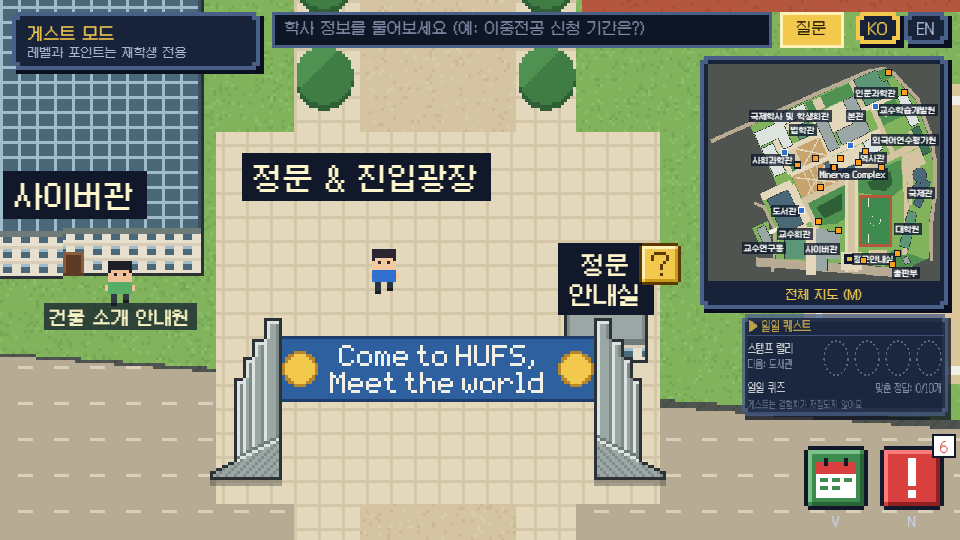
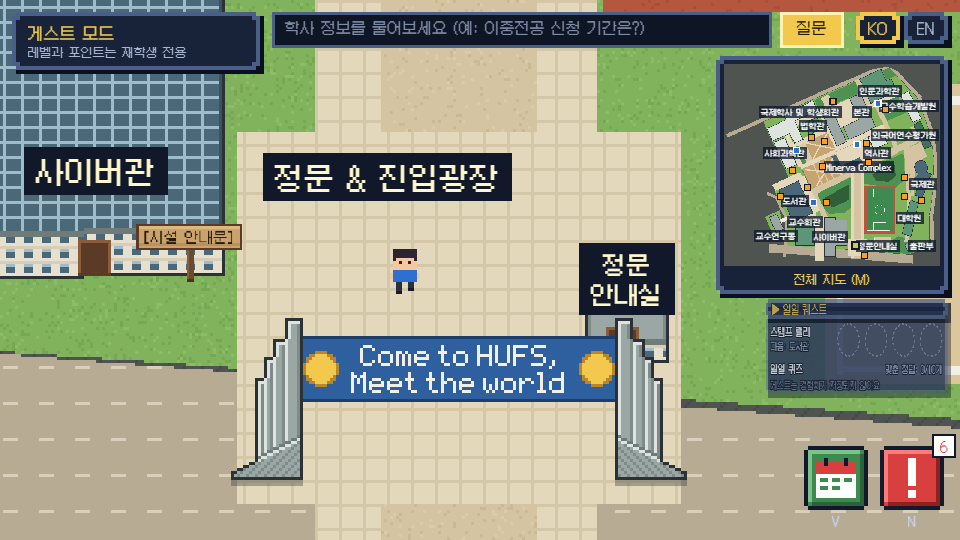
docs: 11/27 오후 다듬기 캡처(첫 화면 7장 다시 + 전 · 후 비교 5장) · 구조 문서 갱신
- 첫 화면 7장 덮어쓰기(first-mobile-student-open은 가짜 로그인 mock)
- 전 · 후 나란히: 도서관 부스 · 팻말, 외국어연수평가원 팻말, 나무 정리 2곳(정문 위 진입로 · 외국어연수평가원 앞 길), 일일 퀘스트 반투명
  ("전"은 수정 전 커밋 326b209의 src로 같은 자리에서 찍음, HUD를 숨기고 찍은 장면 포함)
- ARCHITECTURE: HUD · 일일 퀘스트 줄과 변경 기록

diff --git a/docs/ARCHITECTURE.md b/docs/ARCHITECTURE.md
@@ -123,14 +123,14 @@ class explore,quiz,notice,progress,rules,userDb,login,limiter,mapInfo,newApi,vec
 | 빠른 검색창 | `src/ui/searchBar.js` → `src/data/askApi.js` → `api/ask.js` (11/20~ `shared/academicDate.js`: 한국 시간 오늘 날짜 · 현재 학기를 지시문에 붙이고, 답변의 날짜(연-월-일 · 월-일)나 연도(YYYY학년도 · YYYY년)가 근거 조각에 없으면 "찾지 못함"으로 바꿈. 테스트 `tests/academicDate.test.js`. 11/20~ `api/_lib/decompose.js`: 질문을 하위 질문 최대 2개로 쪼개(`parseQueries`) 하위 질문마다 동시에 벡터 검색하고 `mergeDocs`로 합침, RPC는 `CHUNKS_RPC`(match_chunks · match_chunks_next만 허용). 테스트 `tests/decompose.test.js`. `api/_lib/answerFormat.js`: 답변의 줄 맨 앞 번호 목록을 지우고, 넘긴 자료 수를 넘는 인용 번호를 지움. 11/22~ 출력 상한(400)에 걸려 끊긴 답은 끝난 문장까지만(`trimTruncated`). 테스트 `tests/answerFormat.test.js`. 11/27~ `api/_lib/contactGuard.js`: 답의 이메일 · 전화번호 · 인터넷 주소가 근거 조각(제목 · 본문 · 출처 주소)이나 질문에 없으면 원문 보여 주기로. 테스트 `tests/contactGuard.test.js`) | 신중혁 |
 | 출처 수집일 | `api/_lib/sourceDates.js`: 검색된 조각 ID로 `chunks` 또는 `chunks_next`의 `collected_at` 일괄 조회, 한국 시간 기준 YYYY-MM-DD 변환. `api/ask.js`의 `citedSources()`가 기존 출처에 `collectedAt` 추가. 동일 URL은 확인 가능한 날짜 중 가장 오래된 수집일 표시. 조회 실패 또는 날짜가 없으면 기존 출처 유지. `src/scenes/DialogScene.js` · `src/state.js`에서 한·영 표시. 테스트 `tests/sourceDates.test.js` · `tests/answerCache.test.js`. SQL 변경 없음, Preview 검수 예정 | 신중혁(서버·테스트) · 이종헌(화면 주 담당) |
 | O/X 퀴즈 | `src/scenes/QuizScene.js`, `src/quizBoxes.js`(상자 자리는 `world.js` `WORLD.quizSpots`), `src/quizProgress.js`, `src/data/quiz.js` | 이종헌(배치) · 신중혁(문항) |
-| 일일 퀘스트 (11/27 PM 결정: 이종헌) | **스탬프 랠리 4곳**(도서관 · 국제학사 및 학생회관 · 본관 · 인문과학관): `shared/stampRally.js`(대상 · 도장 약칭 · 건물별 3지선다 후보 3개 · 한국 날짜로 정해지는 오늘의 문제 · 채점. 문제 · 보기는 `buildingInfo.js` 공식 출처 항목에서만), `src/data/stampRallySpots.js`(출입구 옆 팻말 · 반대쪽 부스 자리 계산, 통과 불가 판정), `src/gfx/rallyTextures.js`(캐노피 부스 · 나무 팻말 그림, 도서관은 3/4 각도), `src/scenes/BoothScene.js`(부스 문제 창), `src/ui/stampMark.js`(도장 · 색종이 연출). 이 4곳은 건물 소개 안내원 대신 **"[시설 안내문]" 팻말**에서 `[Enter] 시설 소개`(`officeView.js` `officeSpot`)가 열림. **일일 퀴즈**: 오늘 맞춘 정답 n/10, 10개면 보너스. 화면 로직 `src/dailyQuests.js`(게스트는 메모리, 자정 넘김 30초마다 확인), HUD 창 `HudScene.renderDailyPanel` + 배치 `src/ui/hudLayout.js`, 상세 창 `src/ui/questOverlay.js`. 서버는 새 함수 · 새 SQL 없이 `api/quiz-answer.js`(`kind: "booth"` → `reward_log` source `stamp`) · `api/quest-complete.js`(`stampRally` · `dailyQuiz`를 날짜 붙인 id로) · `progress.daily`. 테스트 `tests/stampRally.test.js` · `stampRallySpots.test.js` · `dailyQuests.test.js` · `dailyQuestsServer.test.js` · `hudLayout.test.js` | 이종헌 |
+| 일일 퀘스트 (11/27 PM 결정: 이종헌) | **스탬프 랠리 4곳**(도서관 · 국제학사 및 학생회관 · 본관 · 인문과학관): `shared/stampRally.js`(대상 · 도장 약칭 · 건물별 3지선다 후보 3개 · 한국 날짜로 정해지는 오늘의 문제 · 채점. 문제 · 보기는 `buildingInfo.js` 공식 출처 항목에서만), `src/data/stampRallySpots.js`(출입구 옆 팻말 · 반대쪽 부스 자리 계산, 통과 불가 판정), `src/gfx/rallyTextures.js`(캐노피 부스 · 나무 팻말 그림, 도서관은 3/4 각도), `src/scenes/BoothScene.js`(부스 문제 창), `src/ui/stampMark.js`(도장 · 색종이 연출). 11/27 오후: **"건물 소개 안내원" NPC를 모두 없애고 시설 소개가 있는 13곳에 "[시설 안내문]" 팻말**(`signSpotOf`, 문과 같은 외벽에 붙임, 그림은 80% `SIGN_SCALE` · `BOOTH_SCALE`)을 세워 거기서 `[Enter] 시설 소개`(`officeView.js` `officeSpot`)가 열림. 부스는 랠리 4곳만(문을 사이에 두고 팻말 반대쪽, 팻말 ↔ 부스 거리 예전의 1.5배). 출입문 그림은 1.5배(`campusV2.js` `DOOR_ART_SCALE` · `doorArtRect`, 팻말 · 부스가 2px 여유로 피함), 가로수는 길 위 · 크게 겹친 나무를 뺀 목록만 그림(`cleanedTrees`). **일일 퀴즈**: 오늘 맞춘 정답 n/10, 10개면 보너스. 화면 로직 `src/dailyQuests.js`(게스트는 메모리, 자정 넘김 30초마다 확인), HUD 창 `HudScene.renderDailyPanel` + 배치 `src/ui/hudLayout.js`, 상세 창 `src/ui/questOverlay.js`. 서버는 새 함수 · 새 SQL 없이 `api/quiz-answer.js`(`kind: "booth"` → `reward_log` source `stamp`) · `api/quest-complete.js`(`stampRally` · `dailyQuiz`를 날짜 붙인 id로) · `progress.daily`. 테스트 `tests/stampRally.test.js` · `stampRallySpots.test.js` · `dailyQuests.test.js` · `dailyQuestsServer.test.js` · `hudLayout.test.js` | 이종헌 |
 | 마감 임박 공지 | `src/ui/deadlineOverlay.js` → `api/deadlines.js` ← `shared/deadlines.js` | 이종헌(화면) · 임현규(데이터) · 신중혁(추출) |
 | 새 공지 알림 · 초안(운영 도구) | `.github/workflows/notice-watch.yml`(하루 3회) → `scripts/notice-watch.mjs` · `scripts/lib/noticeWatch.mjs`(고정된 목록 페이지 4곳에서 제목 · 게시일 · 글 번호만, 본문 안 엶) → 새 글 GitHub 이슈(담당 임현규). 사람이 본문을 `.local/notices/`에 복사 → `scripts/notice-draft.mjs` · `scripts/lib/noticeDraft.mjs`(공지 추출 도우미 실행 → `shared/deadlines.js`에 `checked` 없이 추가 → Draft PR). `api/deadlines.js`는 `checked` 있는 항목만 응답. 사용법 `docs/NOTICE_FLOW.md` | 임현규 |
 | 공지 추출 도우미(CLI) | 팀원이 직접 복사한 공지 원문 → `scripts/extract-notice.mjs`(HyperCLOVA X 추출) → `scripts/lib/noticeDate.mjs`(날짜 해석) · `noticeEvidence.mjs`(원문 근거 연결) · `noticeExtract.mjs`(검증) → 입력용 JSON 초안 → 팀 검수 후 `shared/deadlines.js`에 수동 반영. 게시판 자동 수집 및 자동 데이터 반영 없음 | 신중혁 |
 | 공지 추출 도우미(HCX-007, 연동 대기) | `scripts/extract-notice-hcx007.mjs`(원문 파일 · URL · 선택 게시일) → `scripts/lib/noticeHcx007.mjs`(Structured Outputs · 추론 끔 · 개인정보 사전 검사) → `noticeHcx007Draft.mjs` · `noticeHcx007Date.mjs`(원문 날짜 검증 · 23:59 보완 · 연도 추정 · 복수 마감 · 요일 검증) · 기존 원문 검증 함수 → JSON 초안과 별도 `reviewNotes` 출력. `noticeDraft.mjs` · `notice-draft.mjs`가 게시일 전달 및 검수 메모를 기존 확인 목록에 연결. 실제 공지 데이터에는 메모와 `checked` 미포함. 검증 실패 시 종료 코드 1. 기존 HCX-005 EXTRACTOR 경로 유지, 11/30 담당자 전환 예정. 성능 검증 `docs/NCP_USAGE.md` | 신중혁 |
 | 학교 행사 | `src/ui/eventOverlay.js`(표 창, 공통 틀 `src/ui/hudOverlay.js` · `hudOverlay.css`, 출처 칸 맨 앞 출처 종류 배지 · "행사 제보하기" 링크 — 순수 함수 `src/ui/eventView.js`, 폼 주소 `eventsApi.js` `EVENT_REPORT_URL`이 폼 연결 완료(11/26)) ← `src/data/eventsApi.js`(서버 없으면 기기 계산, `?demoEvents=1`일 때만 [예시]) → `api/events.js`(GET, no-store, `checked.by` 제외) ← `shared/events.js`(팀이 원문을 보고 손 입력, 지금 빈 배열) · `shared/eventCalc.js`(오늘~14일 · 진행 중 계산, 출처 규칙 `eventProblems`). "지도에서 보기" → `MapScene` 건물 강조. 테스트 `tests/events.test.js`. 정적 데이터에는 `sourceType: "crowd"` 금지(`eventProblems`) | 이종헌(화면) · 팀(데이터) |
 | 행사 제보(앱 안, 1단계: DB · 서버) | `api/event-report.js`(POST, 로그인 필수 `authenticateStudent`, 계정당 하루 3회 · env 전체 하루 300회 `event_report_hit`, 후보 묶음 최대 10개 → HCX-007 + Structured Outputs `matchCluster`, 기준 `EVENT_REPORT_THRESHOLD` 기본 5) ← `shared/eventReport.js`(입력 검사 · 전화번호 · 이메일 · 카카오 거절, 칸 · 코드만 돌려줌) → `supabase/008_event_reports.sql`(`event_clusters` · `event_reports` · `event_report_usage`, RLS 정책 없음, `submit_event_report` · `event_report_hit` service_role 전용, **실행 전**). `api/events.js`가 같은 env의 published · confirmed 묶음을 `crowd-<id>`로 합침(Supabase 실패 시 팀 입력 행사만). 테스트 `tests/eventReport.test.js`. **2단계 화면(11/26)**: 행사 창 "행사 제보하기"가 진짜 로그인(`AUTH_MODE` real + 토큰)이면 창 안 제보 폼(`src/ui/eventOverlay.js`, 보내기 전 같은 `validateEventReport` 검사 · 칸 옆 이유, 시각은 `YYYY-MM-DDTHH:MM:00+09:00`), 아니면(게스트 · 가짜 로그인) "로그인하고 제보하기" 버튼 → 캠퍼스를 닫고 타이틀의 로그인 창(`CampusScene.goToLogin` → `TitleScene` `openLogin`). 11/26 게스트 제보 닫음(PM 결정: 이종헌)으로 구글 폼 링크(`EVENT_REPORT_URL`)는 화면에서 안 씀(상수 · 테스트는 남김). 로그인 분기 · 시각 문자열 · 서버 호출 · 응답 문구는 `src/data/eventReportApi.js`, 출처 배지 "학생 제보 R명 · 미확인 / 팀 확인"과 영어 화면 "Original text (Korean)"은 `src/ui/eventView.js`(`sourceBadgeText` · `showOriginalNote`), `?demoEvents=1`에 학생 제보 예시 1개. 테스트 `tests/eventReportUi.test.js`. SQL `008`은 11/26 실행 · 확인(이종헌) | 임현규(DB · 서버) · 이종헌(화면) |
-| HUD | `src/scenes/HudScene.js`. 11/27 배치(PM 결정: 이종헌, 계산은 `src/ui/hudLayout.js` `hudSideLayout`): 왼쪽 위 상태창(그대로), **오른쪽 위 미니맵**(PC 232px · 휴대폰 194px, 오른쪽 선 = 화면 폭 − 12, 위쪽 = 질문창 · KO/EN 아래 끝 + 8px — 질문창 숫자는 `src/ui/searchBarLayout.js`, 휴대폰은 질문창 최소 44px를 게임 좌표로 바꿔 계산, 이름표 8px, 건물명은 한 줄 `name`, 가장자리 이름표는 안쪽으로 당기고 겹치면 비켜 놓음), 그 바로 아래 **일일 퀘스트 창**(오른쪽 선 같음, 접힘 = 오른쪽 끝 탭 "◀ 일일 퀘스트", 펼침 = 왼쪽으로 열리는 낮고 넓은 창 "▶ 일일 퀘스트"), 오른쪽 아래 아이콘 버튼 줄(행사 V, 마감 공지 N — 퀘스트 버튼은 일일 퀘스트 창으로 대체, Q 키는 일일 퀘스트 상세 창). **첫 화면**(`src/ui/firstScreen.js`): 오른쪽 위 HUD가 정문 기둥 · 현수막 · 정문 쪽 이름표를 가리면 가리는 만큼 + 8px 카메라를 가로로 옮김(`CampusScene.applyCameraOffset` → `setFollowOffset`, PC 960×540 114px · 휴대폰 가로 844×390 0), 목적지 화살표는 플레이어 화면 위치 기준. 휴대폰 방향키는 정중앙 x = 첫 화면의 사이버관 안내원 화면 x(고정), 아래에서 12 + 16px(`PAD_LIFT`), 누르는 범위도 패드 가운데 기준. 퀘스트 창 `src/ui/questOverlay.js`. 테스트 `tests/quests.test.js` · `hudLayout.test.js` · `campusGate.test.js` | 이종헌 |
+| HUD | `src/scenes/HudScene.js`. 11/27 배치(PM 결정: 이종헌, 계산은 `src/ui/hudLayout.js` `hudSideLayout`): 왼쪽 위 상태창(그대로), **오른쪽 위 미니맵**(PC 216px · 휴대폰 180px — 11/27 오후 7% 줄임, 오른쪽 선 = 화면 폭 − 12, 위쪽 = 질문창 · KO/EN 아래 끝 + 8px — 질문창 숫자는 `src/ui/searchBarLayout.js`, 휴대폰은 질문창 최소 44px를 게임 좌표로 바꿔 계산, 이름표 8px, 건물명은 한 줄 `name`, 가장자리 이름표는 안쪽으로 당기고 겹치면 비켜 놓음), 그 바로 아래 **일일 퀘스트 창**(오른쪽 선 같음, 접힘 = 오른쪽 끝 탭 "◀ 일일 퀘스트", 펼침 = 왼쪽으로 열리는 낮고 넓은 창 "▶ 일일 퀘스트", 11/27 오후 7% 줄이고 제목 탭만 불투명 · 본문 바탕은 반투명 `DAILY_BODY_ALPHA` 0.55 · 글자는 불투명 + 1px 테두리), 오른쪽 아래 아이콘 버튼 줄(행사 V, 마감 공지 N — 퀘스트 버튼은 일일 퀘스트 창으로 대체, Q 키는 일일 퀘스트 상세 창). **첫 화면**(`src/ui/firstScreen.js`): 오른쪽 위 HUD가 정문 기둥 · 현수막 · 정문 쪽 이름표를 가리면 가리는 만큼 + 8px 카메라를 가로로 옮김(`CampusScene.applyCameraOffset` → `setFollowOffset`, PC 960×540 93px · 휴대폰 가로 844×390 0), 목적지 화살표는 플레이어 화면 위치 기준. 휴대폰 방향키는 정중앙 x = 첫 화면의 사이버관 팻말 화면 x(고정, 정문 기둥을 가리면 가리는 만큼 + 8px 왼쪽으로), 아래에서 12 + 16px(`PAD_LIFT`), 누르는 범위도 패드 가운데 기준. 퀘스트 창 `src/ui/questOverlay.js`. 테스트 `tests/quests.test.js` · `hudLayout.test.js` · `campusGate.test.js` | 이종헌 |
 | 건물 정보 · 맵 기준일 | `src/data/buildingInfo.js`(건물 ID 기준: 이름·용도·층별 사무실·출처·확인일·상태, `MAP_BASE_DATE` · `OFFICIAL_MAP_URL` · `REPORT_FORM_URL` · `REPORT_FORM_PLACE_ENTRY` · `reportFormUrl()`) → `src/data/campus.js`(ID·위치만, 이름은 여기서 붙여 내보냄. `onMap: false`인 장소는 맵에 그리지 않음) · `src/data/npcs.js`(대사 없는 건물은 확인된 용도 표시) · `src/scenes/MapScene.js` `drawMapBasis`(기준일 · 공식 지도 · 신고 버튼, 폼 주소가 비면 신고 버튼 숨김) · `scripts/report-form/`(구글 폼 생성 Apps Script, 건물 이름 목록은 `buildPlaceList.mjs`가 `buildingInfo.js`에서 만듦) · `tests/reportFormUrl.test.js`. **형식·화면 완료, 신고 폼 연결 완료, 근처 건물 미리 채움**(폼에는 건물 이름 하나만 보냄). **11/26 게임 안 신고로 교체(PM 결정: 이종헌)**: 건물 상세 · 전체 지도의 "실제와 달라요 (신고)"는 `src/ui/mapReportOverlay.js`(진짜 로그인이면 폼 — 건물 · 무엇이 다른지 · 설명 200자 · 근거 주소, 게스트 · mock이면 "로그인하고 제보하기") → `api/map-report.js`(로그인 필수, `shared/mapReport.js` 검사 · 연락처는 `contactProblem` 재사용, 하루 5건) → `supabase/010_map_reports.sql`(`map_reports`, 팀이 open → accepted · rejected, accepted면 트리거가 경험치 20 + 009 알림 표 `kind='map'`). `REPORT_FORM_URL` · `reportFormUrl` · `tests/reportFormUrl.test.js`는 화면에서 안 쓰고 남김. 테스트 `tests/mapReport.test.js`. 사무실 안내 창: `src/ui/officeOverlay.js` · `src/ui/officeView.js`(층별 묶음 지하 → 라운지층 → 지상 → 건물 밖, 호실이 있으면 호실만, 묶음 항목 `children`: 층 → 동아리방 · 단과대학 → 하위 목록 → 상세, 위쪽 위치 한 줄 · 뒤로) · `tests/officeView.test.js` · `tests/buildingInfo.test.js`(호수 → 층 `floorFromRoom`, 동아리 66 · 학과 42, AED 없음, 010 없음, 외부 참고 출처). 11/25 길라잡이 76~77p 동아리방 · 80p 학과사무실 · 88p 편의시설 전화 반영 | 이종헌(형식·화면) · 임현규(내용) |
 | 행사 제보 보상 (11/26 PM 결정: 이종헌) | 팀이 Supabase에서 묶음을 `confirmed`로 바꾸면 `supabase/009_event_report_rewards.sql` 트리거 `reward_event_reporters`가 **공개(published_at) 전에 제보한 학생**마다 경험치 20(`shared/progressRules.js` `EVENT_REPORT_REWARD_EXP`, 행사마다 1번 · 하루 상한 없음, `reward_log` source `event-report`)을 주고 `event_reward_notices`에 알림을 남김. 게임은 `src/data/rewardNotices.js`가 재학생(진짜 로그인)일 때 캠퍼스에 들어오자마자 한 번 · 접속 중 15초마다(탭이 보일 때만) `POST /api/reward-notices`(`api/reward-notices.js`, `take_event_reward_notices`로 가져가면 본 것으로 표시, 응답은 건수 · 경험치 합계만)를 불러, `HudScene`이 화면 아래 가운데에 2초 작은 알림(`src/ui/noticeToast.js`, 시설 소개 말풍선과 같은 모양, "+20 EXP" 칩)을 띄우고 진짜 진행 저장이면 경험치를 다시 받아 옴. 화면 확인 `?demoNotice=1`. 테스트 `tests/eventReward.test.js`. **009 11/26 실행 · 확인(이종헌)** | 임현규(DB · 서버) · 이종헌(화면) |
 | 사용량 제한 · 답변 캐시 | `api/_lib/usageLimit.js` (한도 상수 분당 10 · 학생 하루 50 · 게스트 IP 하루 150 · 전체 하루 2000(11/27 500 → 2000). **11/19~ 로그인 학생은 계정 기준**: 요청의 로그인 토큰을 Supabase `/auth/v1/user`로 확인해 `@hufs.ac.kr`이면 "user:<id>" 해시로, 아니면(게스트 · 토큰 오류 · 확인 실패) IP 해시로 셈. 해시 = SHA-256(`ASK_IP_SALT` + 한국 날짜 + 계정 또는 IP), 화면 `src/data/askApi.js`가 로그인 토큰을 붙여 보냄, 1차 메모리 제한 → 2차 `ask_hit`, Supabase 실패 시 메모리 제한으로 대체, **eval 토큰은 11/27부터 `ask_hit`을 부르지 않아 사용자 · 전체 한도에 세지 않음**(인스턴스 메모리 1분 120회만, 로그 `limit: "eval-bypass"`)) ← `api/ask.js`가 첫 AI 호출 전에 호출(429 `{ error, reason, retryAfter }`, 200자 초과 400). DB는 `supabase/003_usage_limits.sql`(11/18 실행). 화면 안내 `src/data/askApi.js`(`busy` · `limit`), 테스트 `tests/usageLimit.test.js`. **사용량 제한은 Preview 확인 전, 답변 캐시는 아직** | 임현규 · 신중혁 |
@@ -225,4 +225,5 @@ class explore,quiz,notice,progress,rules,userDb,login,limiter,mapInfo,newApi,vec
 | 2026-11-27 | 사용량 제한: 전체 하루 상한 500 → 2000, eval 토큰 요청은 `ask_hit` 없이 메모리 1분 120회만(`eval-bypass`). 파일 표 사용량 제한 줄 갱신(상자 · 연결선 변화 없음) | eval 한도 분리 PR |
 | 2026-11-27 | 일일 퀘스트 추가(PM 결정: 이종헌): 캠퍼스 스탬프 랠리 4곳(부스 · 시설 안내문 팻말 · 부스 문제 은행) + 일일 퀴즈 + HUD 일일 퀘스트 창, 미니맵 20% 축소, 퀴즈 하루 상한 50 → 100. 상자 `daily` · `rallyBank`와 연결선 추가, 파일 표 "일일 퀘스트" 줄 추가 · HUD 줄 갱신, 주요 흐름 추가. 새 서버 함수 · 새 SQL 없음 | 일일 퀘스트 PR |
 | 2026-11-27 | HUD 배치 변경(PM 결정: 이종헌): 미니맵(232 · 194px)과 일일 퀘스트 창을 오른쪽 위로, 첫 화면 카메라 가로 오프셋(정문이 가리면), 휴대폰 방향키를 사이버관 안내원 화면 x에. 파일 표 HUD 줄 갱신(상자 · 연결선 변화 없음), 새 파일 `src/ui/firstScreen.js` · `src/ui/searchBarLayout.js` | 일일 퀘스트 PR |
+| 2026-11-27 | 오후 다듬기(PM 결정: 이종헌): 미니맵 · 일일 퀘스트 창 7% 줄임 · 본문 반투명, 팻말 · 부스 80% · 팻말 외벽에 붙임 · 부스 거리 1.5배, 안내원 NPC → 팻말 13곳, 출입문 그림 1.5배, 가로수 정리(100 → 49그루). 파일 표 HUD · 일일 퀘스트 줄 갱신(상자 · 연결선 변화 없음), 새 테스트 `tests/campusTrees.test.js` | 일일 퀘스트 PR |
 | 2026-11-27 | 근거에 없는 연락처 · 주소 검사(`api/_lib/contactGuard.js` `unsupportedContacts`, PM 결정: 이종헌): 주요 흐름 5번 · 빠른 검색창 파일 표 갱신(상자 · 연결선 변화 없음) | 연락처 검사 PR |
